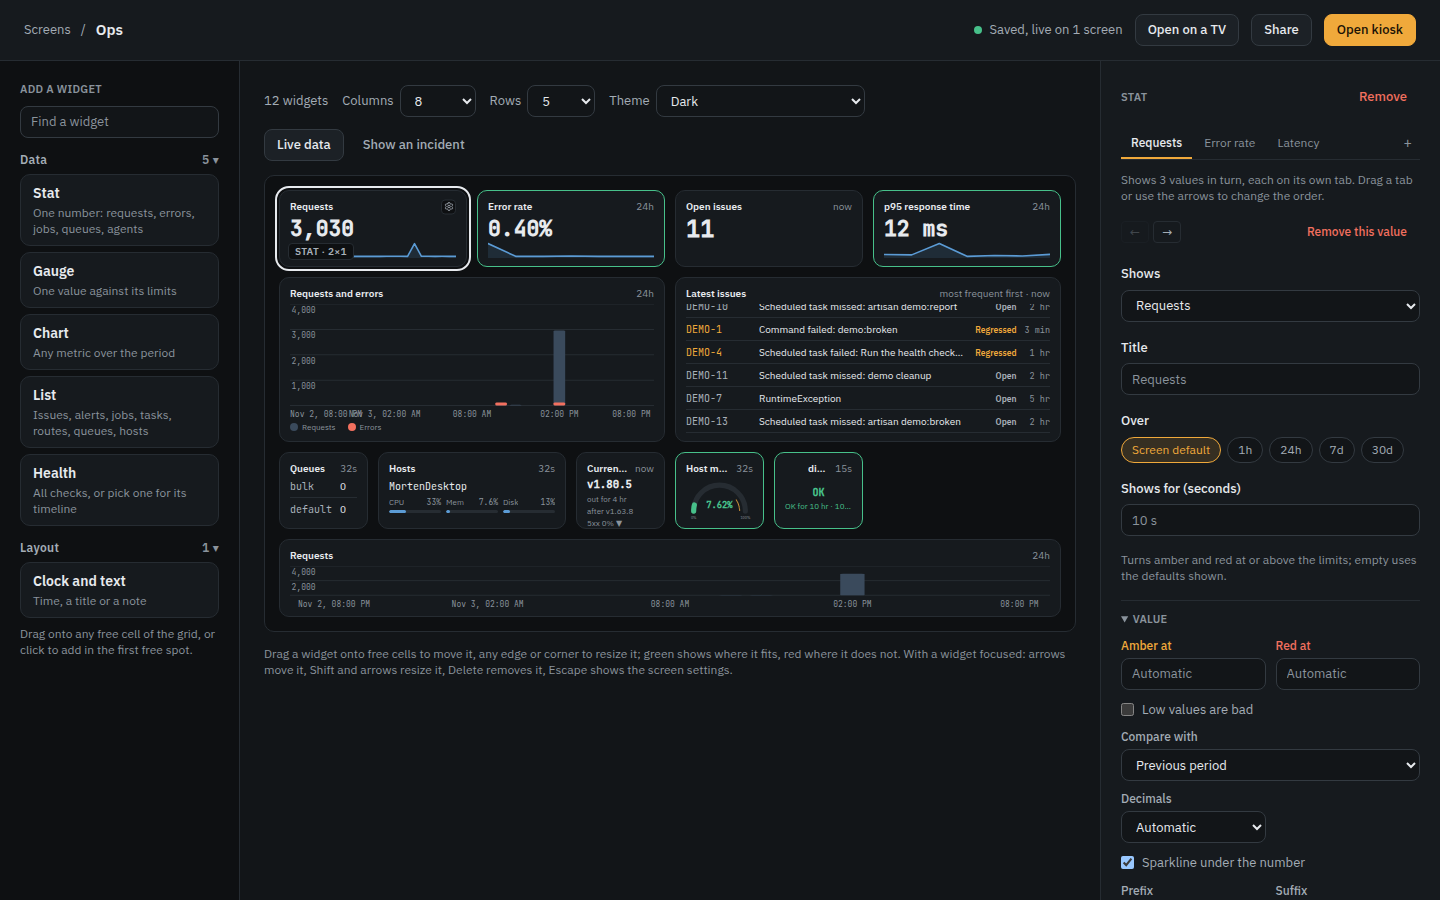
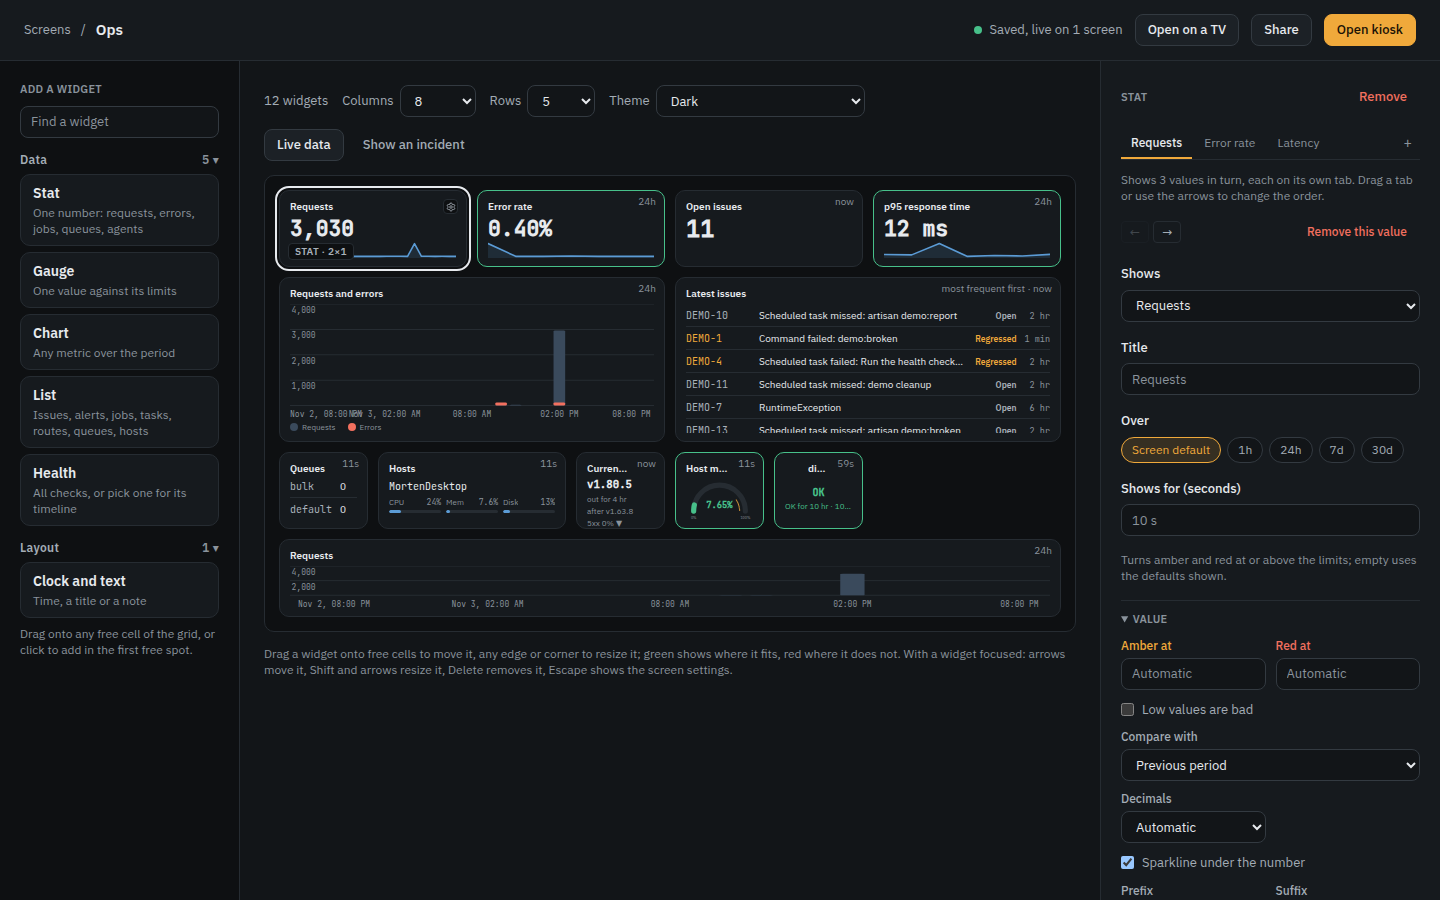
Set a tile's corner label as far from the top as from the right
The label sits absolutely in the tile's top right corner at one inset on
both sides, line-height 1 and raised by the space above a digit, with
the designer's gear at the same inset. Invisible twins in the title row
keep its room, so a long title still truncates before it.

diff --git a/resources/js/components/lj/screen/widgets.tsx b/resources/js/components/lj/screen/widgets.tsx
@@ -299,6 +299,9 @@ function useSize<T extends HTMLElement>(): [
     return [ref, size];
 }
 
+/** How far the corner label and the gear sit from the tile's top and right edges. */
+const CORNER_INSET = '0.8em';
+
 export type TileProps = {
     widget: Widget;
     schema: Schema;
@@ -496,18 +499,44 @@ export function WidgetTile({
             }}
         >
             {decoration}
-            {corner && !(showTitle && widget.type !== 'empty' && title) && (
-                // Without a title row the gear has the corner to itself.
+            {(corner ||
+                (showTitle &&
+                    widget.type !== 'empty' &&
+                    title &&
+                    cornerText)) && (
+                // The corner label, as far from the top as from the right edge, with the
+                // designer's gear taking its place while it shows.
                 <span
-                    className="absolute top-1 right-1 z-20 flex"
-                    style={{ fontSize: 'var(--lj-cell-font)' }}
+                    className="pointer-events-none absolute z-20 flex"
+                    style={{ top: CORNER_INSET, right: CORNER_INSET }}
                 >
-                    {corner}
+                    {showTitle && widget.type !== 'empty' && title && (
+                        <span
+                            className={cn(
+                                // Up by the space above a digit, so the text itself sits
+                                // at the inset (IBM Plex Sans: 0.2em at line-height 1).
+                                'lj-tile-small -mt-[0.2em] leading-none whitespace-nowrap',
+                                corner && 'lj-corner-label',
+                            )}
+                            // The same size on every tile, whatever its text or title size.
+                            style={cornerStyle}
+                        >
+                            {cornerText}
+                        </span>
+                    )}
+                    {corner && (
+                        <span
+                            className="pointer-events-auto absolute top-0 right-0 flex"
+                            style={cornerStyle}
+                        >
+                            {corner}
+                        </span>
+                    )}
                 </span>
             )}
             {showTitle && widget.type !== 'empty' && title && (
-                // The label keeps to the top right corner: a grid with it on the right and
-                // an invisible twin on the left keeps a centered title centered on the tile.
+                // Invisible twins of the label keep room for it on the right, and on the
+                // left too for a centered title, so that stays centered on the tile.
                 <div
                     className={cn(
                         'grid items-baseline gap-[0.6em]',
@@ -535,21 +564,11 @@ export function WidgetTile({
                         {title}
                     </span>
                     <span
-                        className={cn(cornerClass, 'relative')}
-                        // The same size on every tile, whatever its text or title size.
+                        aria-hidden="true"
+                        className={cn(cornerClass, 'invisible')}
                         style={cornerStyle}
                     >
-                        <span
-                            className={corner ? 'lj-corner-label' : undefined}
-                        >
-                            {cornerText}
-                        </span>
-                        {/* The designer's gear takes the label's place while it shows. */}
-                        {corner && (
-                            <span className="absolute top-1/2 right-0 flex -translate-y-1/2">
-                                {corner}
-                            </span>
-                        )}
+                        {cornerText}
                     </span>
                 </div>
             )}
